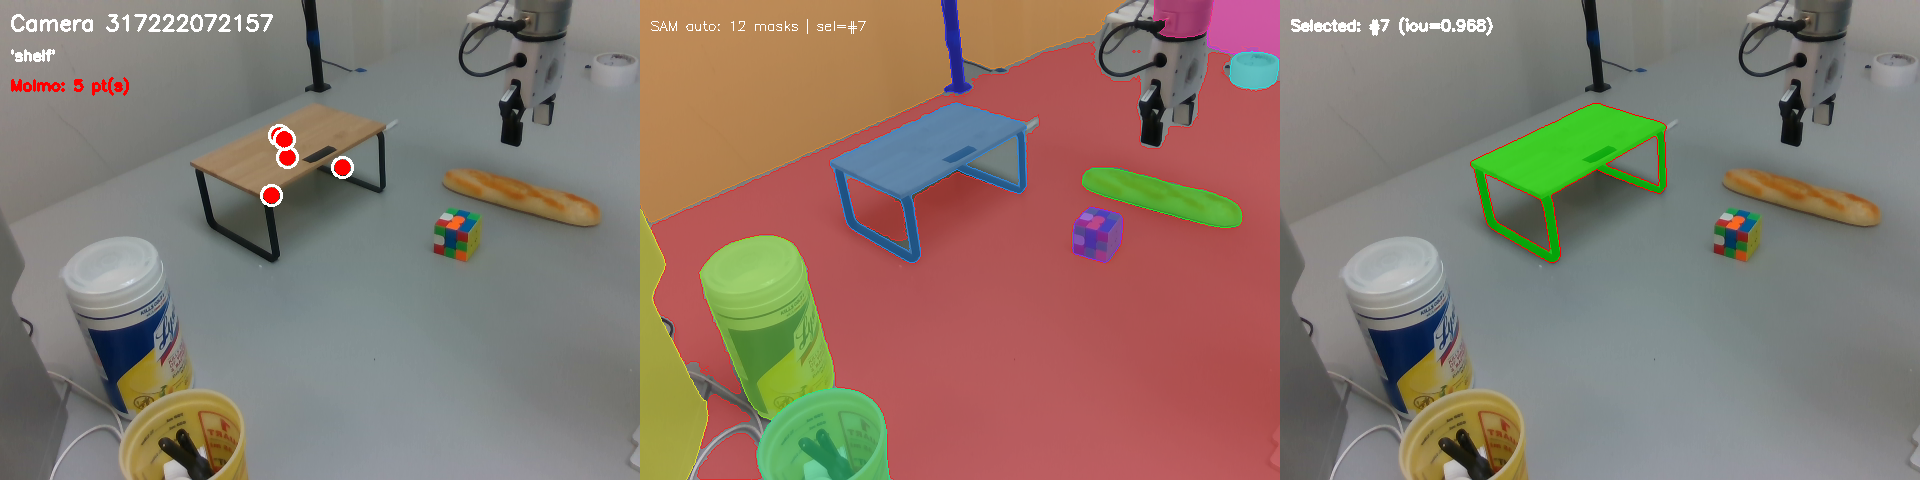
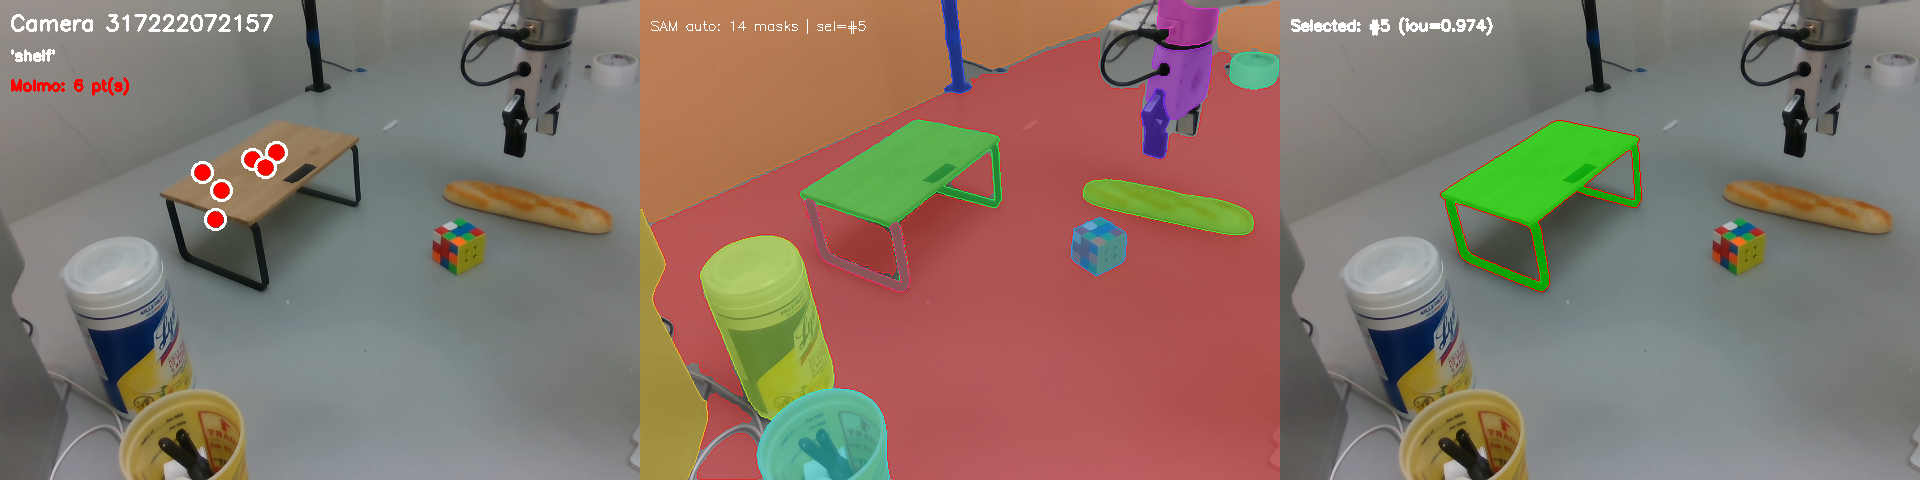
update local support

diff --git a/cap/lmp/lmp.py b/cap/lmp/lmp.py
@@ -87,7 +87,21 @@ class LMP:
     def __init__(self, name, cfg, lmp_fgen, fixed_vars, variable_vars):
         self._name = name
         self._cfg = cfg
-        self._client = OpenAI()  # Initialize OpenAI client
+
+        # Support both OpenAI API and locally-hosted models (e.g. vLLM).
+        # Config fields:
+        #   base_url:  set to vLLM server URL to use a hosted model
+        #   api_key:   set to "not-needed" for local models
+        #   api_mode:  "chat_completions" to use chat.completions.create
+        #              (required for vLLM); omit or set to "responses" for
+        #              the OpenAI Responses API (default).
+        client_kwargs = {}
+        if cfg.get("base_url"):
+            client_kwargs["base_url"] = cfg["base_url"]
+        if cfg.get("api_key"):
+            client_kwargs["api_key"] = cfg["api_key"]
+        self._client = OpenAI(**client_kwargs)
+        self._use_chat = cfg.get("api_mode") == "chat_completions"
 
         env = "real"
 
@@ -129,18 +143,31 @@ class LMP:
     def __call__(self, query, context="", **kwargs):
         prompt, use_query = self.build_prompt(query, context=context)
         print(f"[DEBUG LMP {self._name}] prompt length: {len(prompt)} chars, use_query: {use_query!r}")
+        system_msg = "You are a helpful assistant that pays attention to the user's instructions and writes good python code for operating a robot arm in a tabletop environment. Only output python code with no explanation (code comments are ok) or formatting, it should be ready to parse directly and ran. Do not repeat my code, just complete/continue from my code. Do not import any packages that aren't already there, you should never use the import keyword since all packages you need are already imported in the examples."
         while True:
             try:
-                response = self._client.responses.create(
-                    model=self._cfg.get("model", "gpt-5-nano"),
-                    instructions="You are a helpful assistant that pays attention to the user's instructions and writes good python code for operating a robot arm in a tabletop environment. Only output python code with no explanation (code comments are ok) or formatting, it should be ready to parse directly and ran. Do not repeat my code, just complete/continue from my code. Do not import any packages that aren't already there, you should never use the import keyword since all packages you need are already imported in the examples.",
-                    input=prompt,
-                    reasoning={"effort": "low"},
-                    max_output_tokens=self._cfg["max_tokens"],
-                )
+                if self._use_chat:
+                    response = self._client.chat.completions.create(
+                        model=self._cfg.get("model", "gpt-5-nano"),
+                        messages=[
+                            {"role": "system", "content": system_msg},
+                            {"role": "user", "content": prompt},
+                        ],
+                        max_tokens=self._cfg["max_tokens"],
+                        temperature=self._cfg.get("temperature", 0),
+                    )
+                    raw_text = response.choices[0].message.content or ""
+                else:
+                    response = self._client.responses.create(
+                        model=self._cfg.get("model", "gpt-5-nano"),
+                        instructions=system_msg,
+                        input=prompt,
+                        reasoning={"effort": "low"},
+                        max_output_tokens=self._cfg["max_tokens"],
+                    )
+                    raw_text = response.output_text or ""
 
-                raw_text = response.output_text or ""
-                print(f"[DEBUG LMP {self._name}] status={response.status}, output_text length={len(raw_text)}")
+                print(f"[DEBUG LMP {self._name}] output_text length={len(raw_text)}")
                 print(f"[DEBUG LMP {self._name}] raw response:\n---\n{raw_text}\n---")
 
                 # Strip markdown code fences if model wraps output
@@ -195,7 +222,14 @@ class LMPFGen:
 
     def __init__(self, cfg, fixed_vars, variable_vars):
         self._cfg = cfg
-        self._client = OpenAI()  # Initialize OpenAI client
+
+        client_kwargs = {}
+        if cfg.get("base_url"):
+            client_kwargs["base_url"] = cfg["base_url"]
+        if cfg.get("api_key"):
+            client_kwargs["api_key"] = cfg["api_key"]
+        self._client = OpenAI(**client_kwargs)
+        self._use_chat = cfg.get("api_mode") == "chat_completions"
 
         self._stop_tokens = list(self._cfg["stop"])
         self._fixed_vars = fixed_vars
@@ -211,16 +245,29 @@ class LMPFGen:
         use_query = f'{self._cfg["query_prefix"]}{f_sig}{self._cfg["query_suffix"]}'
         prompt = f"{self._base_prompt}\n{use_query}"
 
+        system_msg = "You are a helpful coding assistant. Only output python code with no explanation (code comments are ok) or formatting, it should be ready to parse directly and ran."
         while True:
             try:
-                response = self._client.responses.create(
-                    model=self._cfg.get("model", "gpt-5-nano"),
-                    instructions="You are a helpful coding assistant. Only output python code with no explanation (code comments are ok) or formatting, it should be ready to parse directly and ran.",
-                    input=prompt,
-                    reasoning={"effort": "low"},
-                    max_output_tokens=self._cfg["max_tokens"],
-                )
-                raw_text = response.output_text or ""
+                if self._use_chat:
+                    response = self._client.chat.completions.create(
+                        model=self._cfg.get("model", "gpt-5-nano"),
+                        messages=[
+                            {"role": "system", "content": system_msg},
+                            {"role": "user", "content": prompt},
+                        ],
+                        max_tokens=self._cfg["max_tokens"],
+                        temperature=self._cfg.get("temperature", 0),
+                    )
+                    raw_text = response.choices[0].message.content or ""
+                else:
+                    response = self._client.responses.create(
+                        model=self._cfg.get("model", "gpt-5-nano"),
+                        instructions=system_msg,
+                        input=prompt,
+                        reasoning={"effort": "low"},
+                        max_output_tokens=self._cfg["max_tokens"],
+                    )
+                    raw_text = response.output_text or ""
                 print(f"[DEBUG LMPFGen] raw response:\n---\n{raw_text}\n---")
 
                 stripped = raw_text.strip()
@@ -241,15 +288,28 @@ class LMPFGen:
                 sleep(10)
 
         if fix_bugs:
+            fix_msg = "Fix any bugs in the following code. Improve readability. Keep same inputs and outputs. Only make small changes. No comments. Only output python code with no explanation (code comments are ok) or formatting, it should be ready to parse directly and ran."
             try:
-                edit_response = self._client.responses.create(
-                    model=self._cfg.get("model", "gpt-5-nano"),
-                    instructions="Fix any bugs in the following code. Improve readability. Keep same inputs and outputs. Only make small changes. No comments. Only output python code with no explanation (code comments are ok) or formatting, it should be ready to parse directly and ran.",
-                    input=f_src,
-                    reasoning={"effort": "low"},
-                    max_output_tokens=self._cfg["max_tokens"],
-                )
-                f_src = edit_response.output_text.strip()
+                if self._use_chat:
+                    edit_response = self._client.chat.completions.create(
+                        model=self._cfg.get("model", "gpt-5-nano"),
+                        messages=[
+                            {"role": "system", "content": fix_msg},
+                            {"role": "user", "content": f_src},
+                        ],
+                        max_tokens=self._cfg["max_tokens"],
+                        temperature=self._cfg.get("temperature", 0),
+                    )
+                    f_src = edit_response.choices[0].message.content.strip()
+                else:
+                    edit_response = self._client.responses.create(
+                        model=self._cfg.get("model", "gpt-5-nano"),
+                        instructions=fix_msg,
+                        input=f_src,
+                        reasoning={"effort": "low"},
+                        max_output_tokens=self._cfg["max_tokens"],
+                    )
+                    f_src = edit_response.output_text.strip()
             except Exception as e:
                 print(f"Bug fixing failed: {e}. Using original code.")
 

diff --git a/main.py b/main.py
@@ -9,7 +9,7 @@ import pathlib
 from cap.lmp.utils import load_config
 
 # Enable grasp visualization (point cloud, masks, grasp poses)
-os.environ["ENABLE_GRASP_VIZ"] = ""
+os.environ["ENABLE_GRASP_VIZ"] = "1"
 from cap.lmp.lmp_wrapper import setup_LMP
 from multiprocessing.managers import SharedMemoryManager
 from ril_env.precise_sleep import precise_wait
